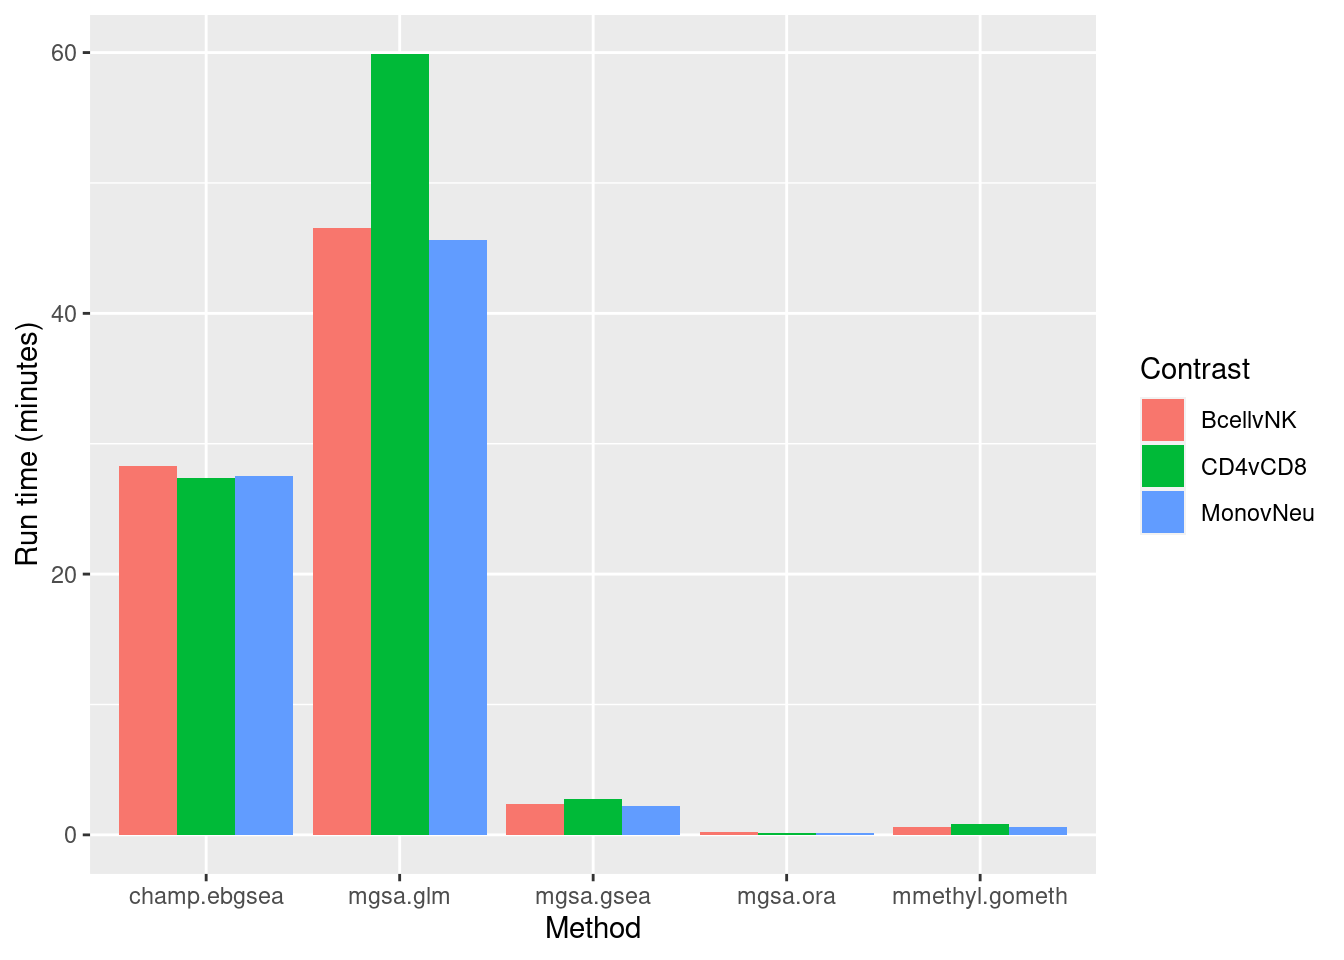
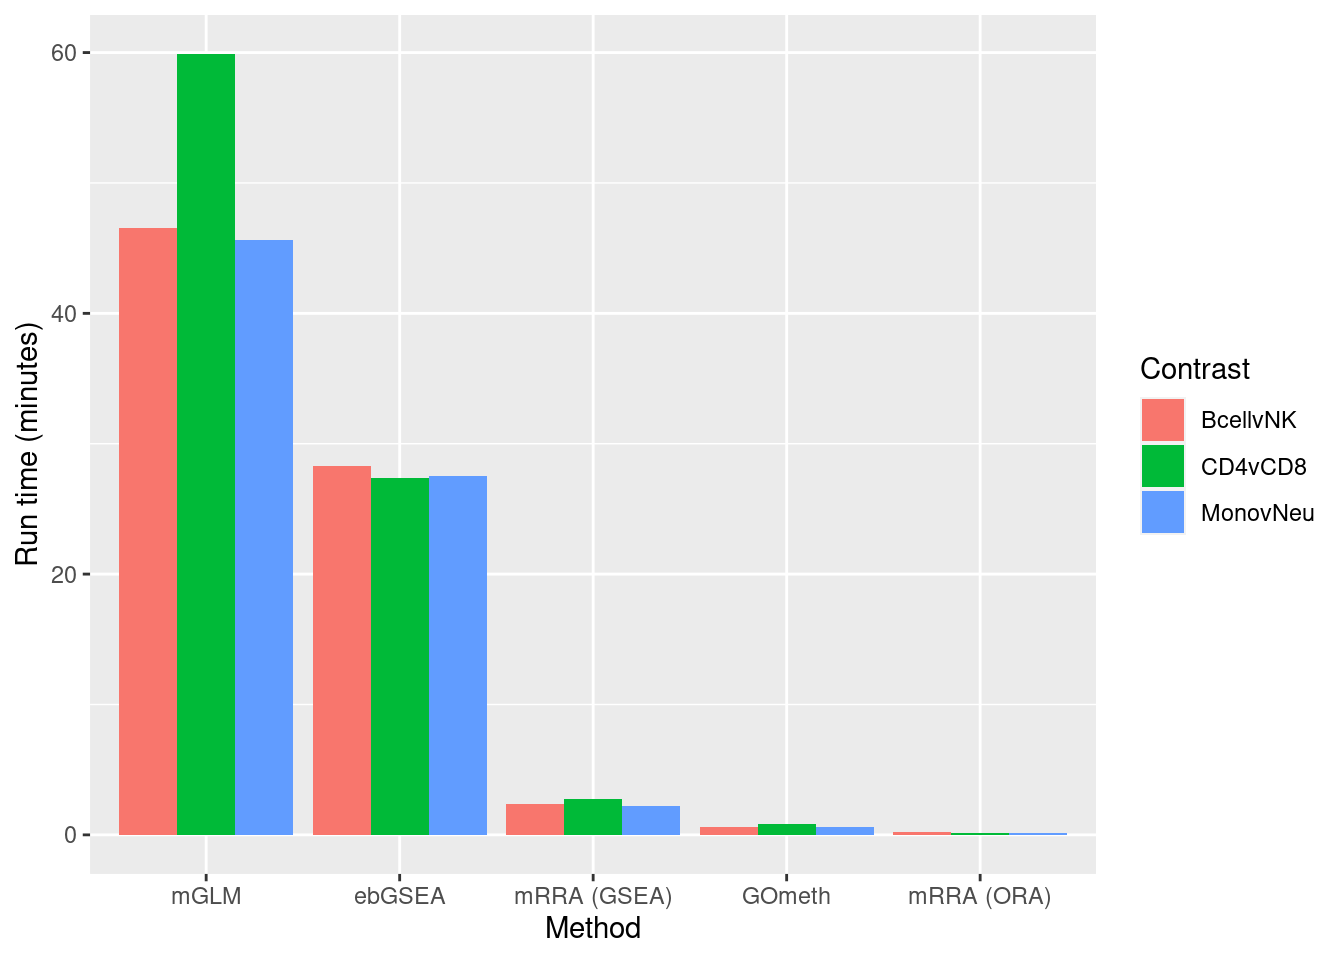
Build site.

diff --git a/docs/runTimeComparison.html b/docs/runTimeComparison.html
@@ -11,7 +11,7 @@
 
 <meta name="author" content="Jovana Maksimovic, Alicia Oshlack and Belinda Phipson" />
 
-<meta name="date" content="2020-05-22" />
+<meta name="date" content="2020-06-23" />
 
 <title>Gene set testing for Illumina HumanMethylation Arrays</title>
 
@@ -381,7 +381,7 @@ div.tocify {
 <h1 class="title toc-ignore">Gene set testing for Illumina HumanMethylation Arrays</h1>
 <h3 class="subtitle">Comparing the run-time of different methods</h3>
 <h4 class="author">Jovana Maksimovic, Alicia Oshlack and Belinda Phipson</h4>
-<h4 class="date">May 22, 2020</h4>
+<h4 class="date">June 23, 2020</h4>
 
 </div>
 
@@ -406,7 +406,7 @@ div.tocify {
 <div class="tab-content">
 <div id="summary" class="tab-pane fade in active">
 <p>
-<strong>Last updated:</strong> 2020-05-22
+<strong>Last updated:</strong> 2020-06-23
 </p>
 <p>
 <strong>Checks:</strong> <span class="glyphicon glyphicon-ok text-success" aria-hidden="true"></span> 7 <span class="glyphicon glyphicon-exclamation-sign text-danger" aria-hidden="true"></span> 0
@@ -497,16 +497,16 @@ This reproducible <a href="http://rmarkdown.rstudio.com">R Markdown</a> analysis
 <div class="panel panel-default">
 <div class="panel-heading">
 <p class="panel-title">
-<a data-toggle="collapse" data-parent="#workflowr-checks" href="#strongRepositoryversionstrongahrefhttpsatlassianpetermacorgaubitbucketscmosmethylgenesettestingtree95e0882fd9a613118a83df44af74c23610412e33targetblank95e0882a"> <span class="glyphicon glyphicon-ok text-success" aria-hidden="true"></span> <strong>Repository version:</strong> <a href="https://atlassian.petermac.org.au/bitbucket/scm/os/methyl-geneset-testing/tree/95e0882fd9a613118a83df44af74c23610412e33" target="_blank">95e0882</a> </a>
+<a data-toggle="collapse" data-parent="#workflowr-checks" href="#strongRepositoryversionstrongahrefhttpsatlassianpetermacorgaubitbucketscmosmethylgenesettestingtreeb8b0c0ba7ec59ae66c24168e63c28e2b1dd1e446targetblankb8b0c0ba"> <span class="glyphicon glyphicon-ok text-success" aria-hidden="true"></span> <strong>Repository version:</strong> <a href="https://atlassian.petermac.org.au/bitbucket/scm/os/methyl-geneset-testing/tree/b8b0c0ba7ec59ae66c24168e63c28e2b1dd1e446" target="_blank">b8b0c0b</a> </a>
 </p>
 </div>
[2 lines of base64/hex data omitted]
 <div class="panel-body">
 <p>
 Great! You are using Git for version control. Tracking code development and connecting the code version to the results is critical for reproducibility.
 </p>
 <p>
-The results in this page were generated with repository version <a href="https://atlassian.petermac.org.au/bitbucket/scm/os/methyl-geneset-testing/tree/95e0882fd9a613118a83df44af74c23610412e33" target="_blank">95e0882</a>. See the <em>Past versions</em> tab to see a history of the changes made to the R Markdown and HTML files.
+The results in this page were generated with repository version <a href="https://atlassian.petermac.org.au/bitbucket/scm/os/methyl-geneset-testing/tree/b8b0c0ba7ec59ae66c24168e63c28e2b1dd1e446" target="_blank">b8b0c0b</a>. See the <em>Past versions</em> tab to see a history of the changes made to the R Markdown and HTML files.
 </p>
 <p>
 Note that you need to be careful to ensure that all relevant files for the analysis have been committed to Git prior to generating the results (you can use <code>wflow_publish</code> or <code>wflow_git_commit</code>). workflowr only checks the R Markdown file, but you know if there are other scripts or data files that it depends on. Below is the status of the Git repository when the results were generated:
@@ -519,11 +519,39 @@ Ignored files:
     Ignored:    code/old/
     Ignored:    data/
     Ignored:    output/FDR-analysis/
+    Ignored:    output/Fig-1A.pdf
+    Ignored:    output/Fig-1B.pdf
+    Ignored:    output/Fig-1C.pdf
+    Ignored:    output/Fig-1D.pdf
+    Ignored:    output/Fig-3A.pdf
+    Ignored:    output/Fig-3B.pdf
+    Ignored:    output/Fig-3C.pdf
+    Ignored:    output/Fig-3D.pdf
+    Ignored:    output/Fig-4A.pdf
+    Ignored:    output/Fig-4B.pdf
+    Ignored:    output/Fig-4C-G.pdf
+    Ignored:    output/SFig-1A.pdf
+    Ignored:    output/SFig-1B.pdf
+    Ignored:    output/SFig-3A.pdf
+    Ignored:    output/SFig-3B.pdf
+    Ignored:    output/SFig-4B.pdf
+    Ignored:    output/SFig-5B.pdf
+    Ignored:    output/SFig-6A.pdf
+    Ignored:    output/SFig-6B-F.pdf
+    Ignored:    output/SFig-7A.pdf
+    Ignored:    output/SFig-7B-F.pdf
+    Ignored:    output/SFig-8A.pdf
+    Ignored:    output/SFig-8B-F.pdf
+    Ignored:    output/SFig-X1.pdf
+    Ignored:    output/SFig-X2.pdf
     Ignored:    output/compare-methods/
+    Ignored:    output/methylgsa-params/
     Ignored:    output/random-cpg-sims/
 
-Untracked files:
-    Untracked:  code/paramSweepMethylGSA.R
+Unstaged changes:
+    Modified:   analysis/exploreArrayBias450.Rmd
+    Modified:   analysis/fdrAnalysis.Rmd
+    Modified:   code/utility.R
 
 </code></pre>
 <p>
@@ -562,6 +590,40 @@ Message
 </tr>
 </thead>
 <tbody>
+<tr>
+<td>
+Rmd
+</td>
+<td>
+<a href="https://atlassian.petermac.org.au/bitbucket/scm/os/methyl-geneset-testing/blob/823b793c623dc12bb9f71222099ae26b07979770/analysis/runTimeComparison.Rmd" target="_blank">823b793</a>
+</td>
+<td>
+Jovana Maksimovic
+</td>
+<td>
+2020-06-16
+</td>
+<td>
+UPdated analyses with label translation and new colour palette.
+</td>
+</tr>
+<tr>
+<td>
+html
+</td>
+<td>
+<a href="https://atlassian.petermac.org.au/bitbucket/scm/os/methyl-geneset-testing/blob/9cb4fea61498d845efe113e8698e0334556b7187/docs/runTimeComparison.html" target="_blank">9cb4fea</a>
+</td>
+<td>
+Jovana Maksimovic
+</td>
+<td>
+2020-05-22
+</td>
+<td>
+Build site.
+</td>
+</tr>
 <tr>
 <td>
 Rmd
@@ -686,7 +748,8 @@ library(IlluminaHumanMethylationEPICanno.ilm10b4.hg19)
 library(EnsDb.Hsapiens.v75)
 library(ChAMP)
 library(methylGSA)
-library(gt)</code></pre>
+library(gt)
+source(here(&quot;code/utility.R&quot;))</code></pre>
 <div id="compare-run-time-of-different-methods" class="section level1">
 <h1>Compare run-time of different methods</h1>
 <div id="setup-inputs" class="section level2">
@@ -789,10 +852,10 @@ if(!file.exists(inFile)){
 }</code></pre>
 <p>Plot run-time results.</p>
 <pre class="r"><code>timing %&gt;% mutate(time = as.integer(time)) %&gt;%
-    mutate(method = ifelse(method == &quot;gometh&quot;, &quot;mmethyl.gometh&quot;, 
-                           method)) -&gt; dat
+    mutate(method = unname(dict[method])) -&gt; dat
 
-p1 &lt;- ggplot(dat, aes(x = method, y = time/60, fill = contrast)) + 
+p1 &lt;- ggplot(dat, aes(x = reorder(method, -time), y = time/60, 
+                      fill = contrast)) + 
     geom_bar(position = &quot;dodge&quot;, stat = &quot;identity&quot;) +
     labs(x = &quot;Method&quot;, y = &quot;Run time (minutes)&quot;, fill = &quot;Contrast&quot;)
 p1</code></pre>
@@ -906,12 +969,12 @@ if(!file.exists(inFile)){
 }</code></pre>
 <p>Plot run-time results.</p>
 <pre class="r"><code>multi %&gt;% mutate(time = as.integer(time)) %&gt;%
-    mutate(cores = limma::strsplit2(method, &quot;.&quot;, fixed=TRUE)[,3])-&gt; dat
+    mutate(cores = limma::strsplit2(method, &quot;.&quot;, fixed=TRUE)[,3]) -&gt; dat
 
 p2 &lt;- ggplot(dat, aes(x = cores, y = time/60, fill = contrast)) + 
     geom_bar(position = &quot;dodge&quot;, stat = &quot;identity&quot;) +
     labs(x = &quot;No. cores&quot;, y = &quot;Run time (minutes)&quot;, fill = &quot;Contrast&quot;) +
-    ggtitle(&quot;Using multiple cores for mgsa.glm&quot;) 
+    ggtitle(&quot;Using multiple cores for mGLM&quot;) 
 p2</code></pre>
 <p><img src="figure/runTimeComparison.Rmd/unnamed-chunk-6-1.png" width="672" style="display: block; margin: auto;" /></p>
 <p>
@@ -994,16 +1057,18 @@ Jovana Maksimovic
 </table>
 </div>
 </div>
-<pre class="r"><code>timing %&gt;% group_by(method) %&gt;%
+<pre class="r"><code>timing %&gt;% mutate(method = unname(dict[method])) %&gt;% 
+    group_by(method) %&gt;%
     mutate(time = as.integer(time)) %&gt;%
     summarise(mean = mean(time)) %&gt;%
     mutate(mins = mean/60) %&gt;%
+    dplyr::select(method, mins) %&gt;%
+    arrange(mins) %&gt;%
     as_tibble() -&gt; tab
 
 tab %&gt;% gt() %&gt;%
-    fmt_number(columns = vars(mean, mins), decimals = 2) %&gt;%
+    fmt_number(columns = vars(mins), decimals = 2) %&gt;%
     cols_label(
-        mean = md(&quot;**Seconds**&quot;),
         mins = md(&quot;**Minutes**&quot;),
         method = md(&quot;**Method**&quot;)
         ) %&gt;%
@@ -1349,49 +1414,43 @@ tab %&gt;% gt() %&gt;%
 <div id="pghwmvswhb" style="overflow-x:auto;overflow-y:auto;width:auto;height:auto;"><table class="gt_table">
   <thead class="gt_header">
     <tr>
-      <th colspan="3" class="gt_heading gt_title gt_font_normal" style><strong>Average run-time across all contrasts</strong></th>
+      <th colspan="2" class="gt_heading gt_title gt_font_normal" style><strong>Average run-time across all contrasts</strong></th>
     </tr>
     <tr>
-      <th colspan="3" class="gt_heading gt_subtitle gt_font_normal gt_bottom_border" style>Using Broad MSigDB gene sets from <code>ChAMP</code> package</th>
+      <th colspan="2" class="gt_heading gt_subtitle gt_font_normal gt_bottom_border" style>Using Broad MSigDB gene sets from <code>ChAMP</code> package</th>
     </tr>
   </thead>
   <thead class="gt_col_headings">
     <tr>
       <th class="gt_col_heading gt_columns_bottom_border gt_left" rowspan="1" colspan="1"><strong>Method</strong></th>
-      <th class="gt_col_heading gt_columns_bottom_border gt_right" rowspan="1" colspan="1"><strong>Seconds</strong></th>
       <th class="gt_col_heading gt_columns_bottom_border gt_right" rowspan="1" colspan="1"><strong>Minutes</strong></th>
     </tr>
   </thead>
   <tbody class="gt_table_body">
     <tr>
-      <td class="gt_row gt_left">champ.ebgsea</td>
-      <td class="gt_row gt_right">1,663.00</td>
-      <td class="gt_row gt_right">27.72</td>
+      <td class="gt_row gt_left">mRRA (ORA)</td>
+      <td class="gt_row gt_right">0.16</td>
     </tr>
     <tr>
-      <td class="gt_row gt_left">gometh</td>
-      <td class="gt_row gt_right">40.33</td>
+      <td class="gt_row gt_left">GOmeth</td>
       <td class="gt_row gt_right">0.67</td>
     </tr>
     <tr>
-      <td class="gt_row gt_left">mgsa.glm</td>
-      <td class="gt_row gt_right">3,042.33</td>
-      <td class="gt_row gt_right">50.71</td>
-    </tr>
-    <tr>
-      <td class="gt_row gt_left">mgsa.gsea</td>
-      <td class="gt_row gt_right">146.00</td>
+      <td class="gt_row gt_left">mRRA (GSEA)</td>
       <td class="gt_row gt_right">2.43</td>
     </tr>
     <tr>
-      <td class="gt_row gt_left">mgsa.ora</td>
-      <td class="gt_row gt_right">9.67</td>
-      <td class="gt_row gt_right">0.16</td>
+      <td class="gt_row gt_left">ebGSEA</td>
+      <td class="gt_row gt_right">27.72</td>
+    </tr>
+    <tr>
+      <td class="gt_row gt_left">mGLM</td>
+      <td class="gt_row gt_right">50.71</td>
     </tr>
   </tbody>
   <tfoot class="gt_sourcenotes">
     <tr>
-      <td class="gt_sourcenote" colspan="3"><em>*All methods were run on a single core.</em></td>
+      <td class="gt_sourcenote" colspan="2"><em>*All methods were run on a single core.</em></td>
     </tr>
   </tfoot>
   
@@ -1534,7 +1593,7 @@ loaded via a namespace (and not attached):
  [49] dendextend_1.13.4                                  
  [50] permute_0.9-5                                      
  [51] reshape_0.8.8                                      
- [52] withr_2.1.2                                        
+ [52] withr_2.2.0                                        
  [53] ggforce_0.3.1                                      
  [54] lumi_2.38.0                                        
  [55] bitops_1.0-6                                       
@@ -1547,7 +1606,7 @@ loaded via a namespace (and not attached):
  [62] clusterProfiler_3.12.0                             
  [63] DelayedMatrixStats_1.8.0                           
  [64] vctrs_0.3.0                                        
- [65] ellipsis_0.3.0                                     
+ [65] ellipsis_0.3.1                                     
  [66] generics_0.0.2                                     
  [67] urltools_1.7.3                                     
  [68] tools_3.6.1                                        
@@ -1666,7 +1725,7 @@ loaded via a namespace (and not attached):
 [181] lubridate_1.7.4                                    
 [182] GO.db_3.8.2                                        
 [183] gtools_3.8.1                                       
-[184] prettyunits_1.0.2                                  
+[184] prettyunits_1.1.1                                  
 [185] dbplyr_1.4.2                                       
 [186] R.methodsS3_1.7.1                                  
 [187] gtable_0.3.0                                       
